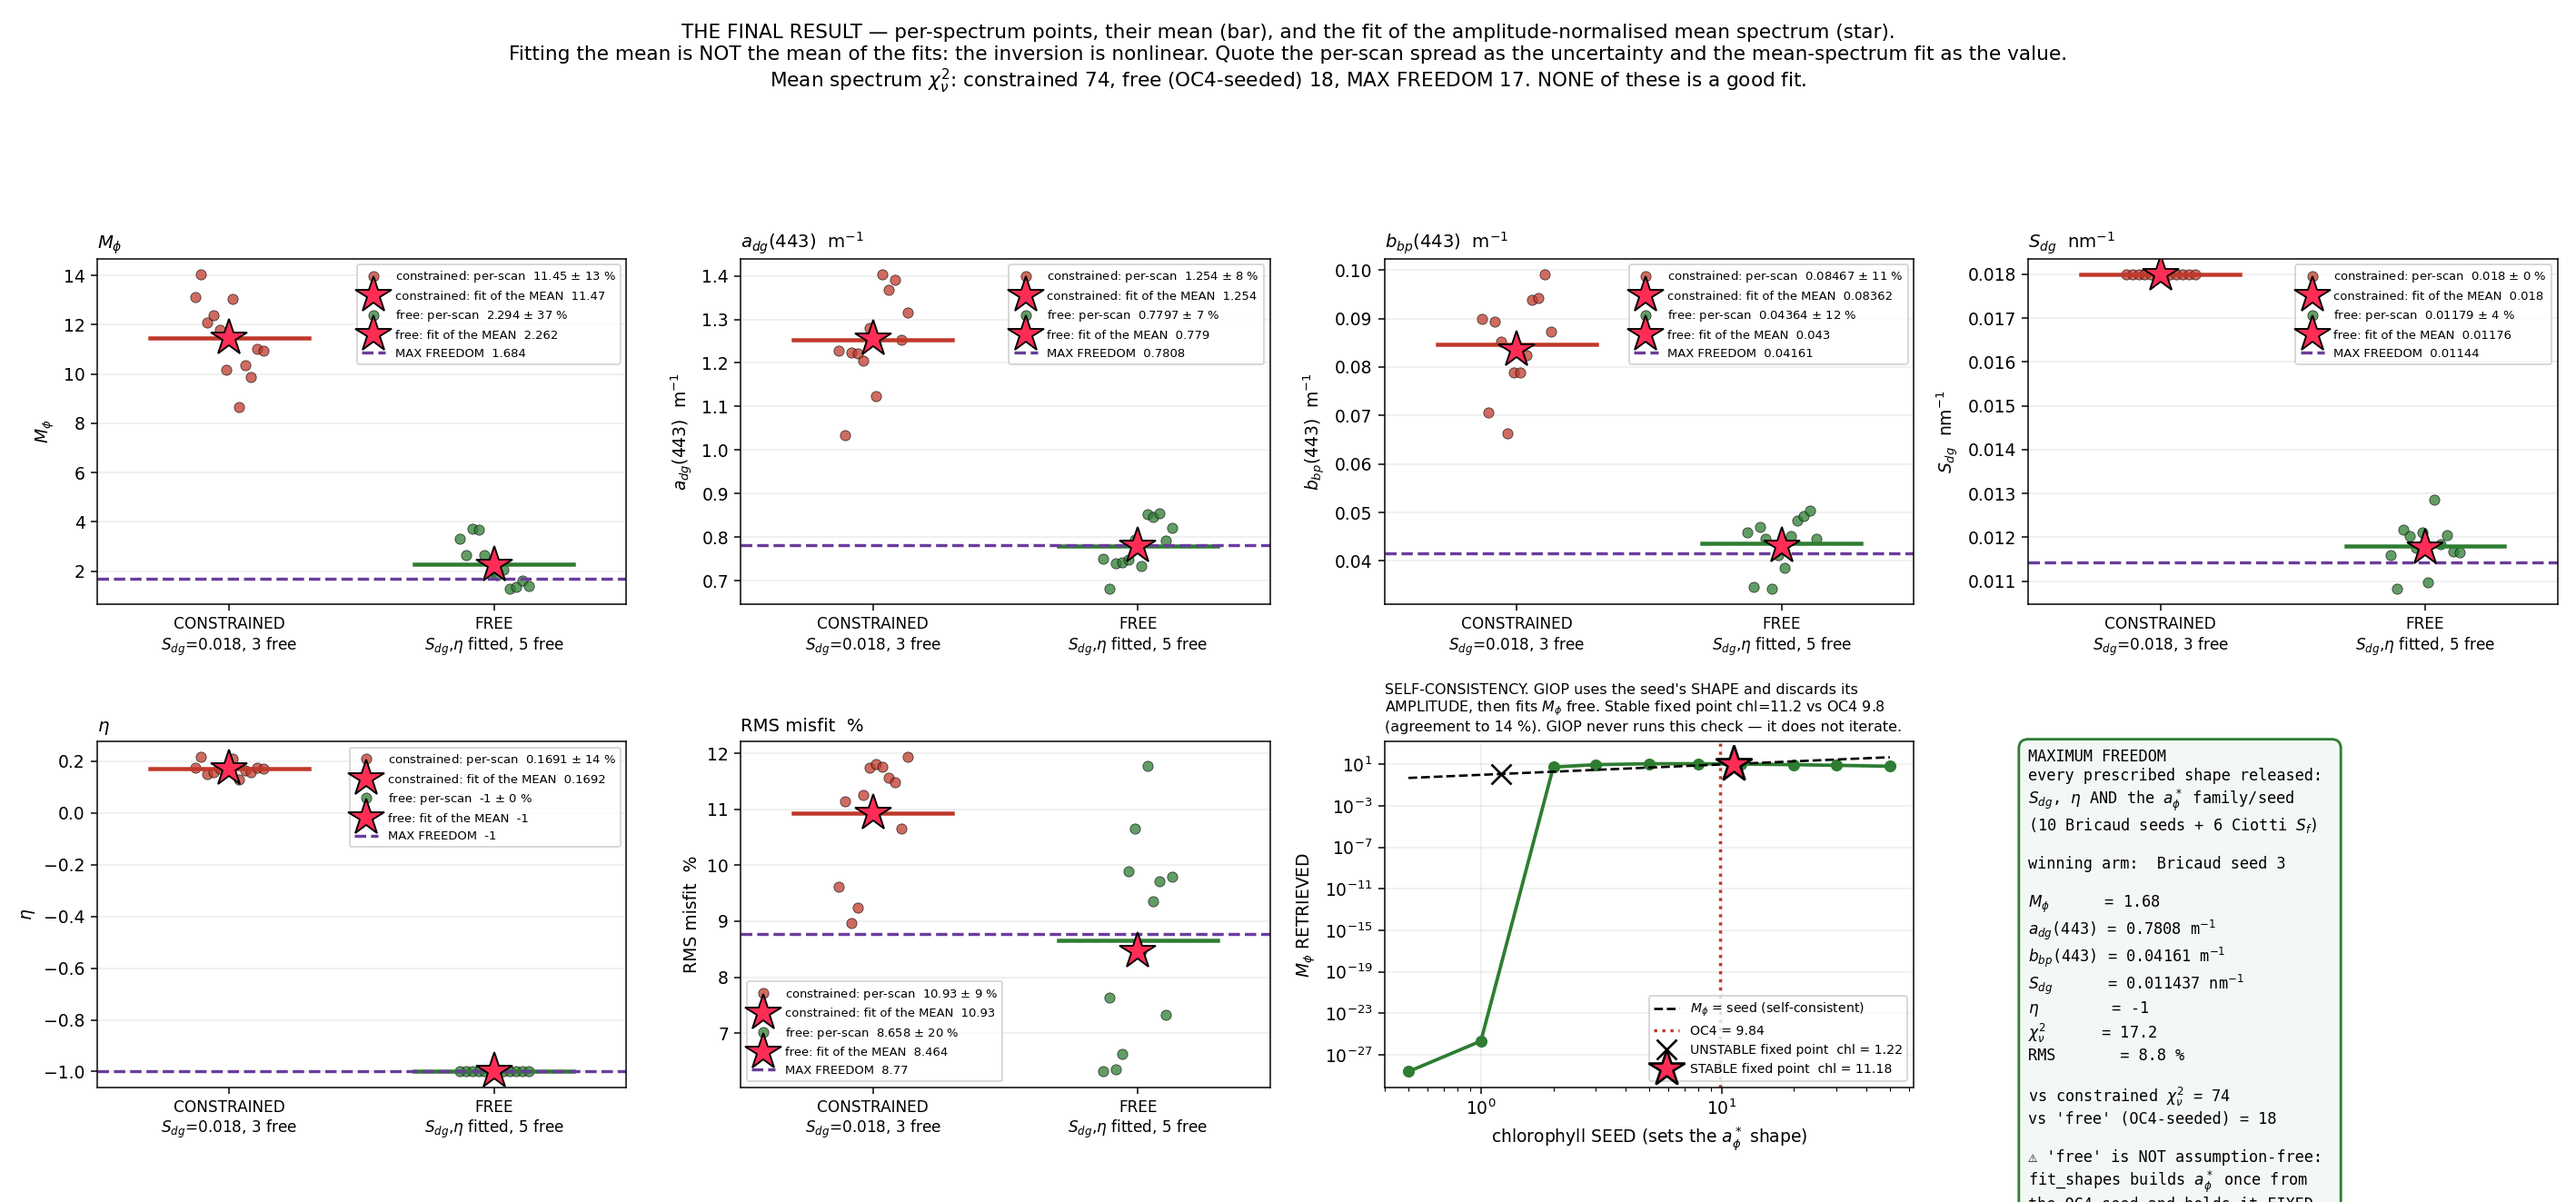
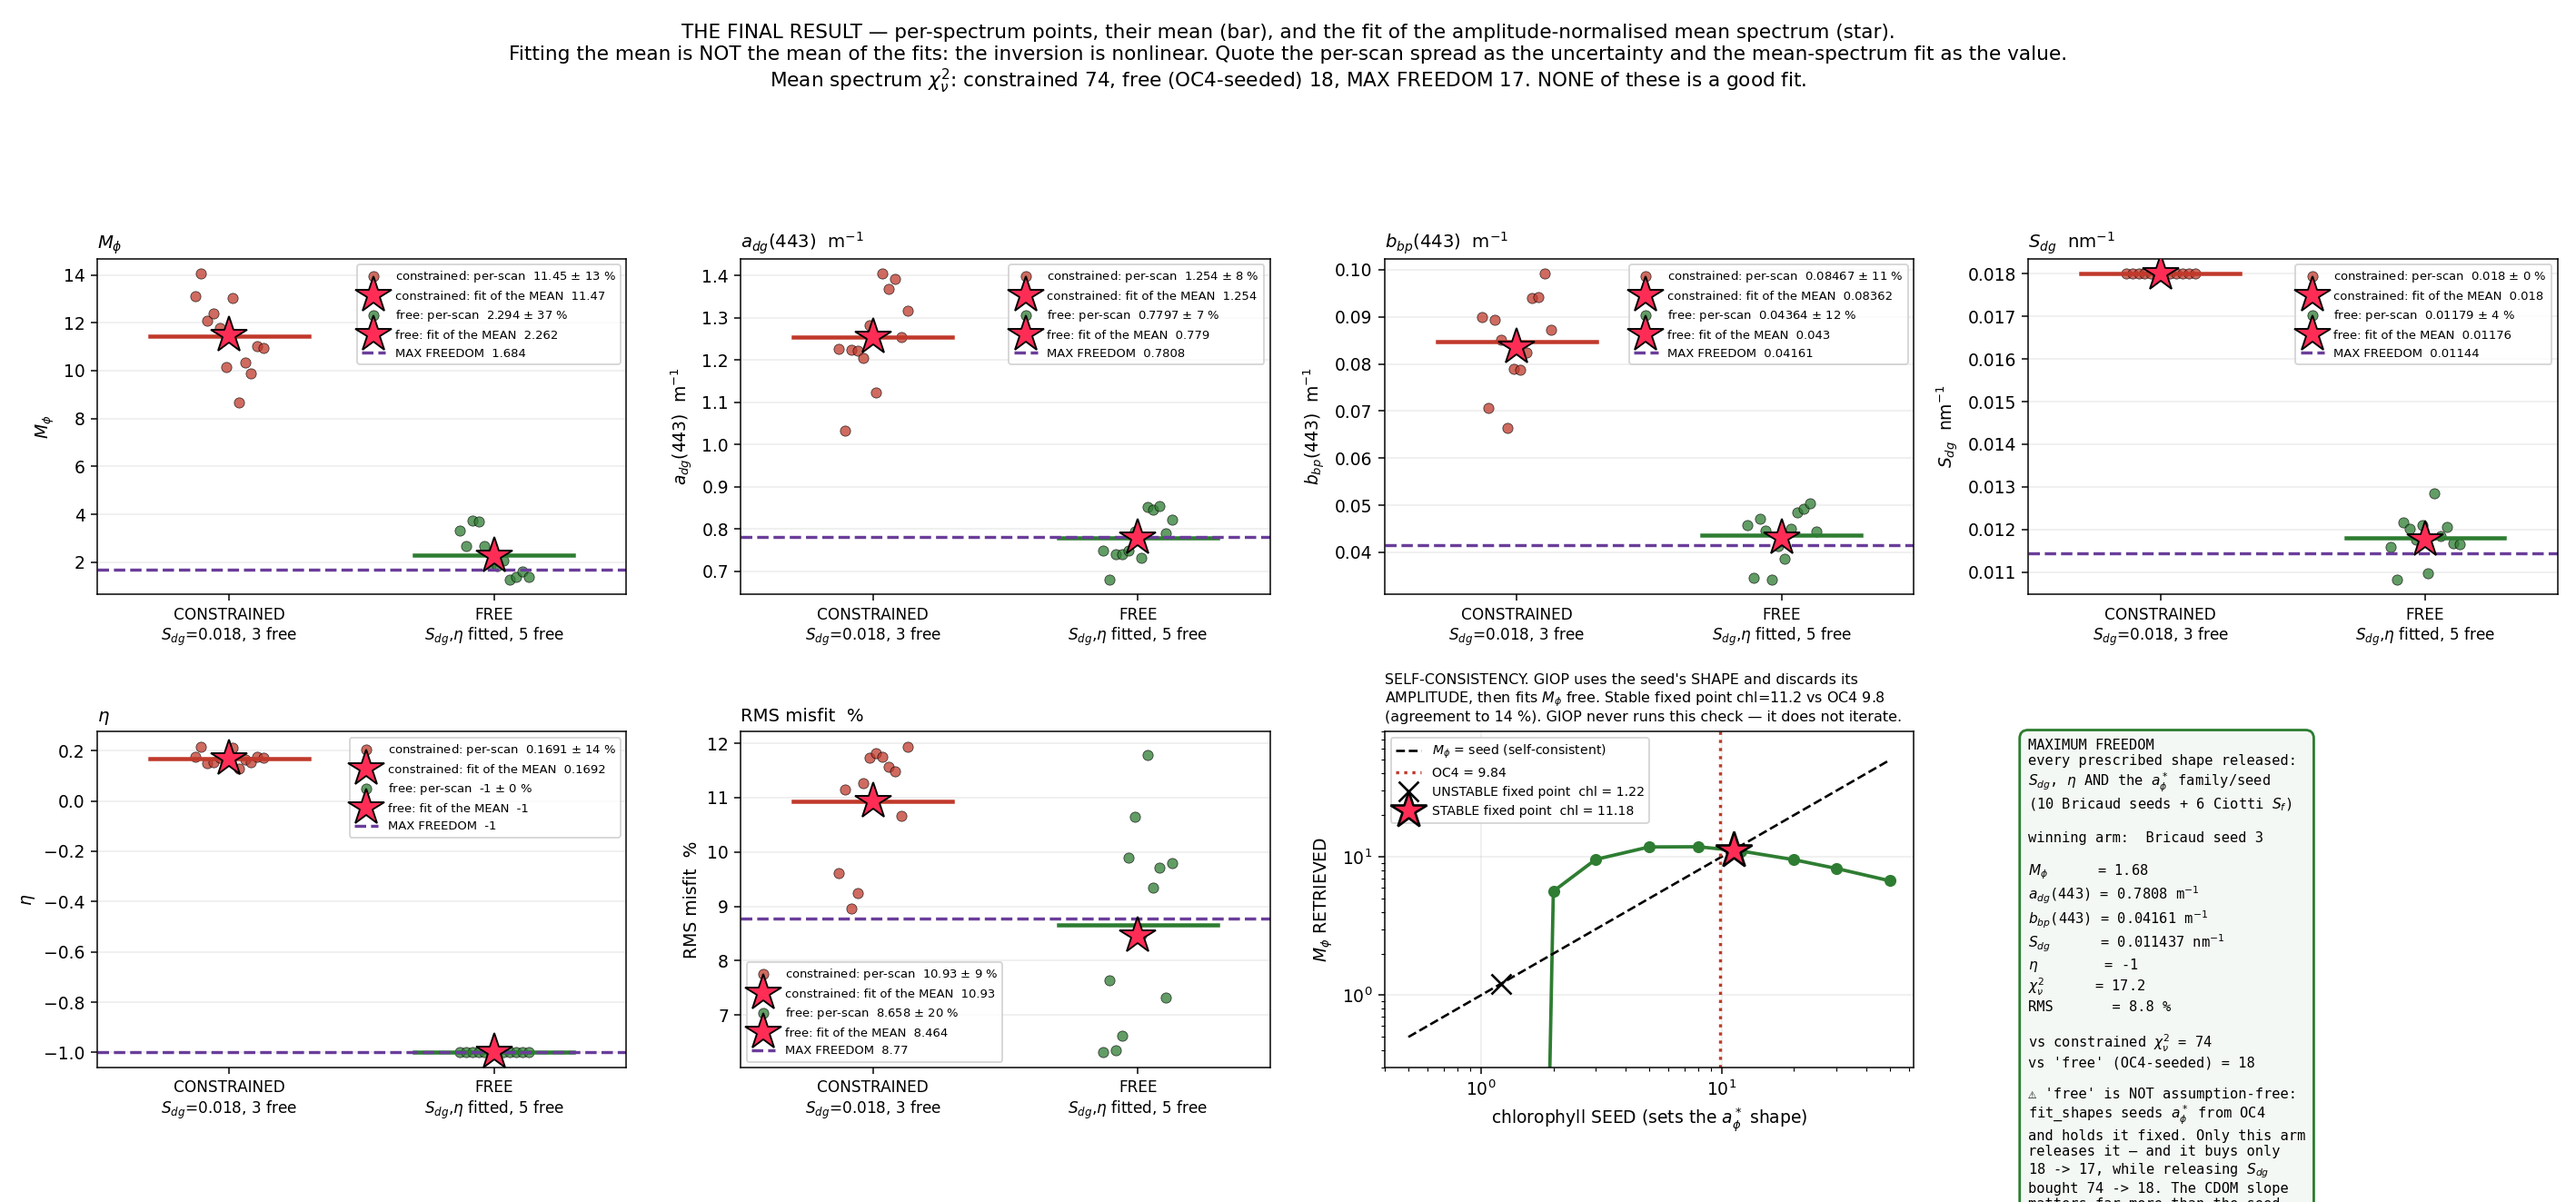
Cross-plot free vs constrained chi2: the 4x gain reproduces in 12 of 12 spectra
The mean-spectrum improvement (chi2_nu 74.5 -> 18.1) could have been an averaging
artefact -- one bad scan dragging a summary. giop11_chi2_crossplot.png tests it on
each angle-matched spectrum independently:

  constrained median 72.0, free median 20.6
  improvement median 4.25x, range 3.16-4.91x
  12 of 12 scans improved
  gain vs brightness r = +0.20

Nearly the same factor everywhere and no dependence on brightness, so the
constrained shapes are wrong in the SAME structural way in every spectrum rather
than failing per-scan.

The plot doubles as a solver check: free is nested inside constrained, so no point
may lie above the 1:1 line. That region is shaded and empty.

DEFECT caught by viewing the render: the first version shaded BELOW the line as
"FORBIDDEN" -- i.e. it marked the only physically allowed region as impossible, with
all 12 points sitting inside it. fill_between(lim, lim, [lim[0]]*2) shades below;
[lim[1]]*2 shades above.

_perscan_fits now records chi2_nu per scan against the same measured per-band sigma
used everywhere else in the folder, so per-scan and mean-spectrum chi2 are directly
comparable.

Suites: giop 140 passed, field-day 26 passed, package 111 passed.

diff --git a/make_giop_figures.py b/make_giop_figures.py
@@ -349,7 +349,7 @@ def f_sdg(wl, mean, ssd, chl, out):
     return p
 
 
-def _perscan_fits(loc, chl, free=False):
+def _perscan_fits(loc, chl, free=False, S=None):
     """GIOP on each angle-matched pair, keeping the spectra and the IOPs.
 
     ``free=True`` also fits S_dg and eta per spectrum -- the maximum-freedom
@@ -377,9 +377,13 @@ def _perscan_fits(loc, chl, free=False):
             g = run(W, v, chl, **(dict(fit_shapes=True, n_starts=4) if free else {}))
             rin = rrs_above_to_below(v, cfg.trans)
             rmod = g.rrs_model_subsurface
+            # chi2 against the SAME measured per-band sigma used everywhere else in
+            # this folder, so per-scan chi2 is comparable with the mean-spectrum chi2.
+            c2n = (float(np.sum(((g.rrs_model_above - v) / S) ** 2)) / (len(W) - 3)
+                   if S is not None else np.nan)
             out.append({"n": w["n"], "sky": sk["n"], "dm": dm, "W": W, "rrs": v,
                         "rin": rin, "rmod": rmod, "M": g.chl, "adg": g.adg443,
-                        "bbp": g.bbp443, "eta": g.eta, "sdg": g.sdg,
+                        "bbp": g.bbp443, "eta": g.eta, "sdg": g.sdg, "c2n": c2n,
                         "rms": 100 * float(np.sqrt(np.mean((rmod / rin - 1) ** 2))),
                         "amp": float(v[int(np.argmin(abs(W - 555)))]), "ok": True})
         except Exception:
@@ -388,7 +392,7 @@ def _perscan_fits(loc, chl, free=False):
 
 
 # ------------------------------------------------------------------ figure 6
-def f_perscan(loc, chl, out):
+def f_perscan(loc, chl, out, S=None):
     """All twelve fits, spectrum by spectrum, in BOTH configurations.
 
     Earlier this showed only the constrained fit (S_dg fixed at 0.018, eta from QAA,
@@ -396,8 +400,8 @@ def f_perscan(loc, chl, out):
     made the misfit look like an inevitable property of GIOP rather than of that
     particular choice of shapes. Both are now drawn on every panel.
     """
-    fits = _perscan_fits(loc, chl, free=False)
-    fr = {f["n"]: f for f in _perscan_fits(loc, chl, free=True)}
+    fits = _perscan_fits(loc, chl, free=False, S=S)
+    fr = {f["n"]: f for f in _perscan_fits(loc, chl, free=True, S=S)}
     n = len(fits)
     fig, axes = plt.subplots(3, 4, figsize=(17.5, 11), sharex=True)
     for ax, f in zip(axes.flat, fits):
@@ -1032,6 +1036,96 @@ def f_final(wl, mean, ssd, oc4, fits_fix, fits_free, out):
     return p, mean_row
 
 
+# ------------------------------------------------------------------ figure 11
+def f_chi2_crossplot(fits_fix, fits_free, mean_row, out):
+    """chi2 of the free fit against chi2 of the constrained fit, scan by scan.
+
+    The summary numbers say free beats constrained 4x on the mean spectrum. That could
+    be one bad scan dragging an average, or it could hold for every spectrum
+    independently. A cross-plot against the 1:1 line answers it directly, and the
+    nesting property (free is a superset of constrained) means EVERY point must lie on
+    or below the line -- so the plot doubles as a check on the solver.
+    """
+    fr = {f["n"]: f for f in fits_free}
+    pairs = [(f, fr[f["n"]]) for f in fits_fix if f["n"] in fr
+             and np.isfinite(f.get("c2n", np.nan))
+             and np.isfinite(fr[f["n"]].get("c2n", np.nan))]
+    if not pairs:
+        return None
+    xc = np.array([a_["c2n"] for a_, _ in pairs])
+    yc = np.array([b_["c2n"] for _, b_ in pairs])
+    amp = np.array([a_["amp"] for a_, _ in pairs])
+    names = [a_["n"] for a_, _ in pairs]
+
+    fig, axes = plt.subplots(1, 3, figsize=(17.5, 5.6))
+
+    ax = axes[0]
+    lim = [min(xc.min(), yc.min()) * 0.8, max(xc.max(), yc.max()) * 1.25]
+    ax.plot(lim, lim, "k--", lw=1.6, label="1:1  (no improvement)")
+    # ABOVE the line is the impossible side: free is a superset of constrained, so its
+    # optimum can never be worse. Shading below would mark the only region the points
+    # are allowed to be in, which is what the first version of this figure did.
+    ax.fill_between(lim, lim, [lim[1]] * 2, color="#c0392b", alpha=0.07, zorder=0)
+    ax.text(lim[0] * 1.15, lim[1] * 0.62, "FORBIDDEN\nfree is nested inside "
+            "constrained,\nso no point can lie above the 1:1 line",
+            fontsize=8, color="#c0392b", ha="left", va="top")
+    for f_, y_ in ((2, "#888"), (4, "#555")):
+        ax.plot(lim, [v / f_ for v in lim], ":", color=y_, lw=1.2)
+        ax.text(lim[1] * 0.97, lim[1] / f_, "%dx better" % f_, fontsize=8,
+                color=y_, ha="right", va="bottom")
+    sc = ax.scatter(xc, yc, s=110, c=amp, cmap="viridis", edgecolor="k",
+                    linewidth=0.6, zorder=4)
+    plt.colorbar(sc, ax=ax, label="$R_{rs}$(555)  sr$^{-1}$")
+    ax.plot([mean_row["constrained"]["c2n"]], [mean_row["free"]["c2n"]], "*", ms=24,
+            color="#ff2d55", mec="k", zorder=6, label="the MEAN spectrum")
+    for x_, y_, n_ in zip(xc, yc, names):
+        ax.annotate(n_, (x_, y_), fontsize=6.5, xytext=(4, -8),
+                    textcoords="offset points")
+    ax.set_xscale("log"); ax.set_yscale("log")
+    ax.set_xlim(lim); ax.set_ylim(lim)
+    ax.set_xlabel("$\\chi^2_\\nu$  CONSTRAINED  ($S_{dg}$=0.018, $\\eta$ QAA)")
+    ax.set_ylabel("$\\chi^2_\\nu$  FREE  ($S_{dg}$, $\\eta$ fitted)")
+    ax.legend(fontsize=8, loc="upper left"); ax.grid(alpha=0.25, which="both")
+    ax.set_title("EVERY scan improves, and by a similar factor.\n"
+                 "median %.2fx, range %.2f-%.2fx over %d scans"
+                 % (np.median(xc / yc), (xc / yc).min(), (xc / yc).max(), len(xc)),
+                 fontsize=10, loc="left")
+
+    ax = axes[1]
+    o = np.argsort(xc / yc)
+    ax.barh(range(len(o)), (xc / yc)[o], color="#2e7d32")
+    ax.axvline(1, color="k", lw=1.4)
+    ax.axvline(np.median(xc / yc), color="#ff2d55", ls="--", lw=1.6,
+               label="median %.2fx" % np.median(xc / yc))
+    ax.set_yticks(range(len(o)))
+    ax.set_yticklabels([names[i] for i in o], fontsize=7.5)
+    ax.set_xlabel("$\\chi^2_\\nu$ constrained / $\\chi^2_\\nu$ free")
+    ax.legend(fontsize=8.5); ax.grid(alpha=0.25, axis="x")
+    ax.set_title("Improvement factor, scan by scan", fontsize=10, loc="left")
+
+    ax = axes[2]
+    r = np.corrcoef(amp, xc / yc)[0, 1]
+    ax.scatter(amp, xc / yc, s=110, color="#2c6f9b", edgecolor="k", linewidth=0.6)
+    ax.set_xlabel("$R_{rs}$(555)  sr$^{-1}$  (how bright the scan is)")
+    ax.set_ylabel("improvement factor")
+    ax.grid(alpha=0.25)
+    ax.set_title("Does the gain depend on the spectrum?  r = %+.2f\n%s"
+                 % (r, "no — the constrained shapes are wrong in the SAME way "
+                    "everywhere" if abs(r) < 0.5 else
+                    "yes — the misfit scales with brightness"),
+                 fontsize=10, loc="left")
+
+    fig.suptitle("FREE vs CONSTRAINED, $\\chi^2$ cross-plot. The mean-spectrum gain "
+                 "(%.0f $\\to$ %.0f) is not an artefact of averaging:\nit reproduces "
+                 "independently in every one of the %d angle-matched spectra."
+                 % (mean_row["constrained"]["c2n"], mean_row["free"]["c2n"], len(xc)),
+                 fontsize=12)
+    fig.tight_layout(rect=(0, 0, 1, 0.90))
+    p = os.path.join(out, "giop11_chi2_crossplot.png")
+    fig.savefig(p, dpi=140); plt.close(fig)
+    return p
+
+
 def main():
     ap = argparse.ArgumentParser()
     ap.add_argument("location", help="by_location/LOC*/FOREOPTIC_FOVxx")
@@ -1050,13 +1144,25 @@ def main():
     ps.append(f_fit(wl, mean, chl, a.out))
     p, store = f_uncertainty(wl, mean, ssd, chl, a.out); ps.append(p)
     ps.append(f_sdg(wl, mean, ssd, chl, a.out))
-    p, fits, fits_free = f_perscan(loc, chl, a.out); ps.append(p)
+    _m = (wl >= LO) & (wl <= HI)
+    p, fits, fits_free = f_perscan(loc, chl, a.out, S=ssd[_m]); ps.append(p)
     p, D, names = f_covariance(fits, a.out); ps.append(p)
     p, A, Bc, free, chls, sfs = f_assumption_free(loc, wl, mean, ssd, chl, a.out)
     ps.append(p)
     p, arms, C, wgt, nu, rho1, neff, best, adm = f_chi2(wl, mean, ssd, chl, a.out)
     ps.append(p)
     p, mean_row = f_final(wl, mean, ssd, chl, fits, fits_free, a.out); ps.append(p)
+    p = f_chi2_crossplot(fits, fits_free, mean_row, a.out)
+    if p:
+        ps.append(p)
+        _x = np.array([f["c2n"] for f in fits])
+        _fr = {f["n"]: f["c2n"] for f in fits_free}
+        _y = np.array([_fr[f["n"]] for f in fits])
+        print("\nFREE vs CONSTRAINED chi2_nu, per scan:")
+        print("   constrained median %.1f, free median %.1f, improvement median %.2fx "
+              "(range %.2f-%.2f), %d of %d improved"
+              % (np.median(_x), np.median(_y), np.median(_x / _y), (_x / _y).min(),
+                 (_x / _y).max(), int((_y <= _x).sum()), len(_x)))
     print("\nFINAL RESULT")
     print("   %-13s %9s %9s %9s %9s %8s %9s" % ("config", "M_phi", "adg443", "bbp443",
                                                 "S_dg", "eta", "chi2_nu"))

diff --git a/THEORY_GIOP_NOTE.md b/THEORY_GIOP_NOTE.md
@@ -206,6 +206,31 @@ Two things follow, and they point in opposite directions:
   0.0416, i.e. 0.2 % and 3 %). Once the shapes are free, those two stop caring about the
   seed. **M_φ does not**: 2.26 → 1.68, and it was 11.47 constrained.
 
+### 4.1b Does the gain survive scan by scan? Yes, 12 of 12
+
+The mean-spectrum improvement (χ²_ν 74.5 → 18.1) could in principle be an artefact of
+averaging — one badly-fitting scan dragging a summary. `giop11_chi2_crossplot.png` puts
+the free χ²_ν against the constrained χ²_ν for each of the 12 angle-matched spectra
+independently:
+
+| | value |
+|---|---|
+| constrained, median over scans | **72.0** |
+| free, median over scans | **20.6** |
+| improvement factor, median | **4.25×** |
+| improvement factor, range | 3.16× – 4.91× |
+| scans improved | **12 of 12** |
+| correlation of gain with R_rs(555) | r = +0.20 |
+
+The gain is nearly the same in every spectrum and does not correlate with brightness, so
+**the constrained shapes are wrong in the same way everywhere** — a fixed structural
+mismatch, not a per-scan accident.
+
+> The plot doubles as a solver check. Free is nested inside constrained, so **no point may
+> lie above the 1:1 line**. That region is shaded and empty. (The first version of this
+> figure shaded the *other* side, marking the only physically allowed region as
+> forbidden — caught by looking at the render.)
+
 ### 4.2 "If you know chl from OC4, don't you know the shape *and* the amplitude?"
 
 Yes — and GIOP deliberately throws the amplitude away. Bricaud gives the **absolute**
